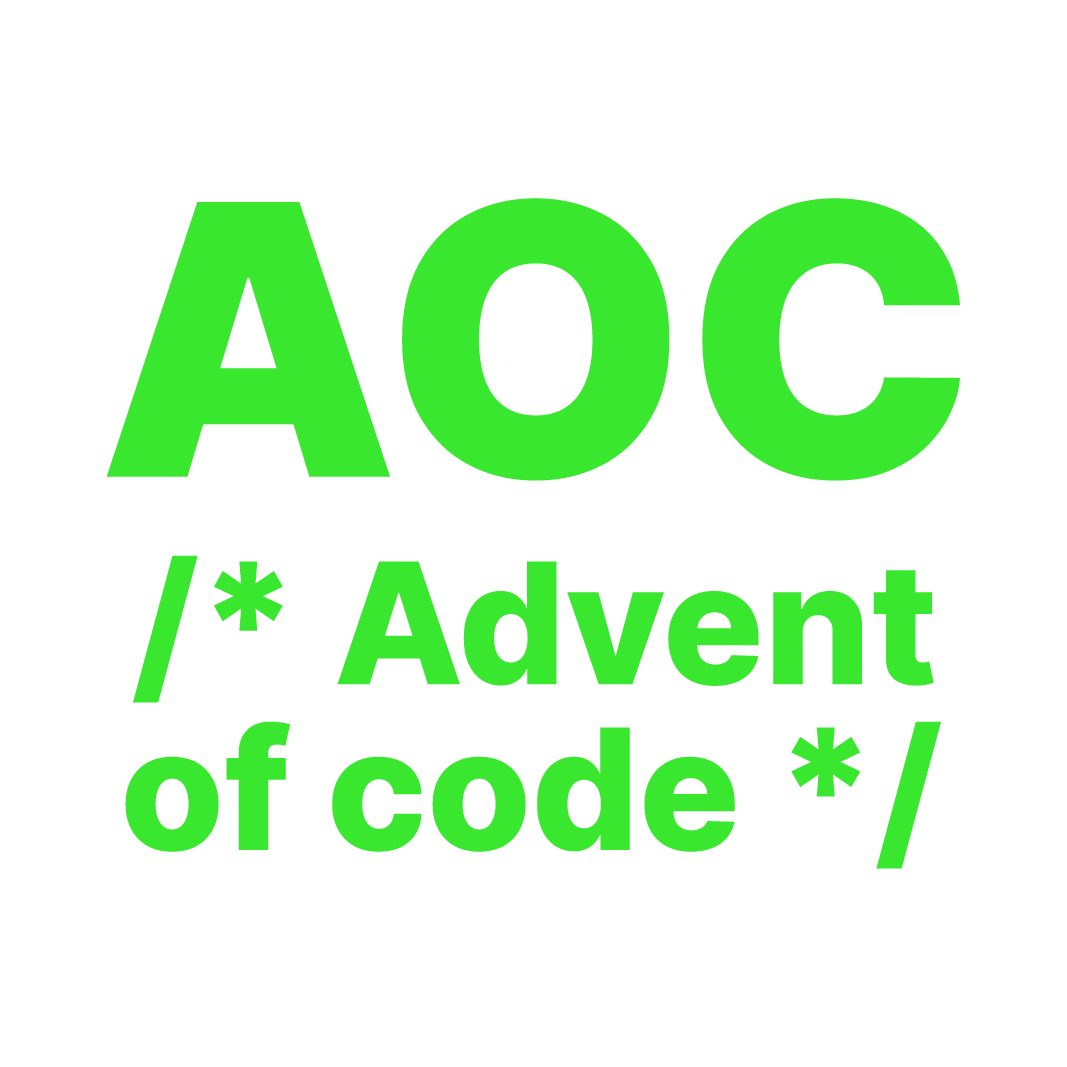
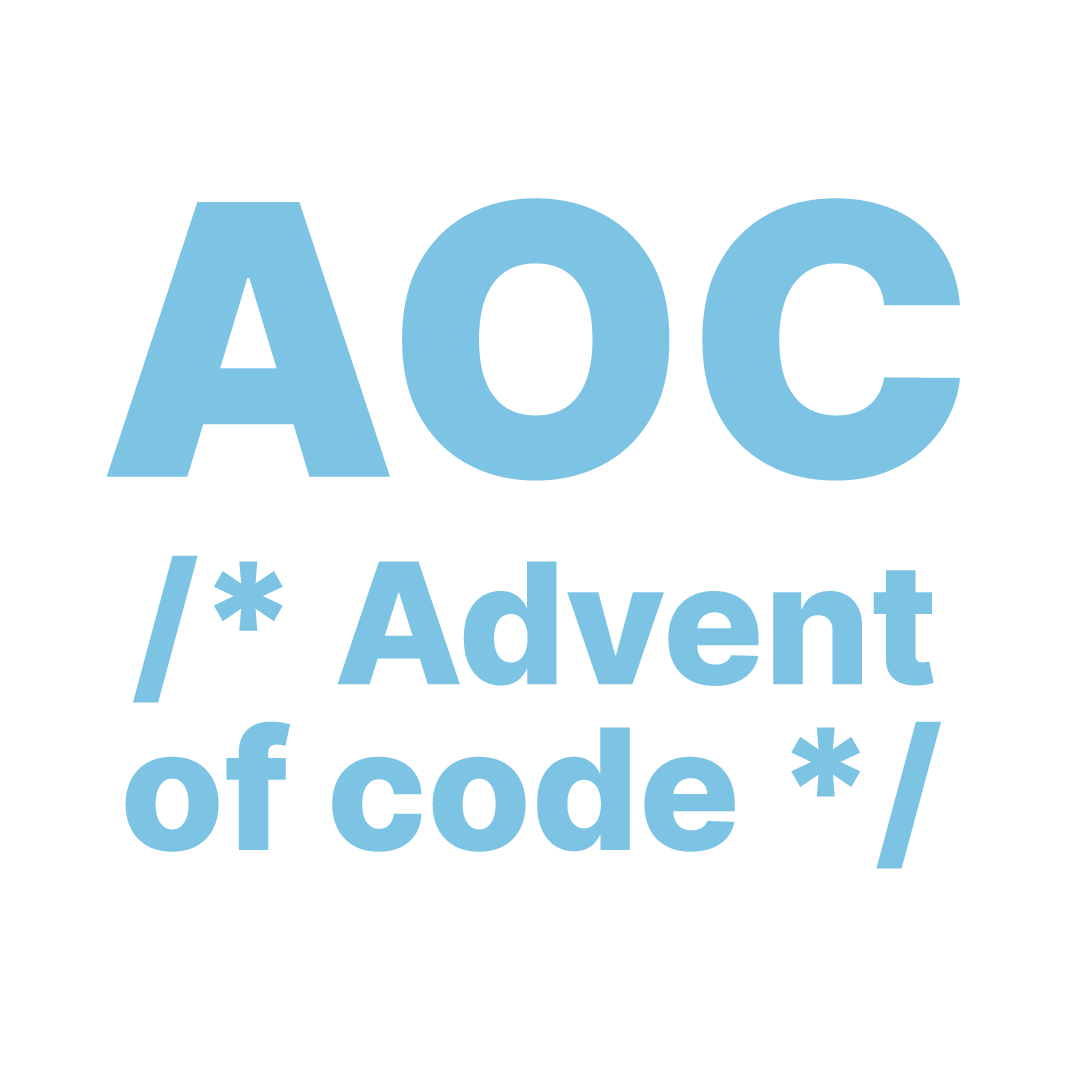
idk changes to syling and website

diff --git a/src/styles/projects.scss b/src/styles/projects.scss
@@ -29,12 +29,22 @@ a {
     text-decoration: none;
 }
 
+.project__text img {
+  width: 4em;
+  height: auto;
+
+  margin-right: 1em;
+}
+
+.project__title-line {
+  display: flex;
+  align-items: center;
+}
+
 .project h2 {
     margin-top: 0;
     margin-bottom: 0;
     font-size: 4em;
-
-    text-decoration: underline;
 
     color: vars.$accent-1;
 }

diff --git a/src/styles/vars.scss b/src/styles/vars.scss
@@ -1,7 +1,7 @@
-$bg-color: #1e222a;
-$primary: #80a0c0;
-$secondary: #4f6175;
-$accent-1: #b48ead;
+$bg-color: #24273a;
+$primary: #b7bdf8;
+$secondary: #b7bdf8;
+$accent-1: #c6a0f6;
 
 $side-margin: 15vw;
 
